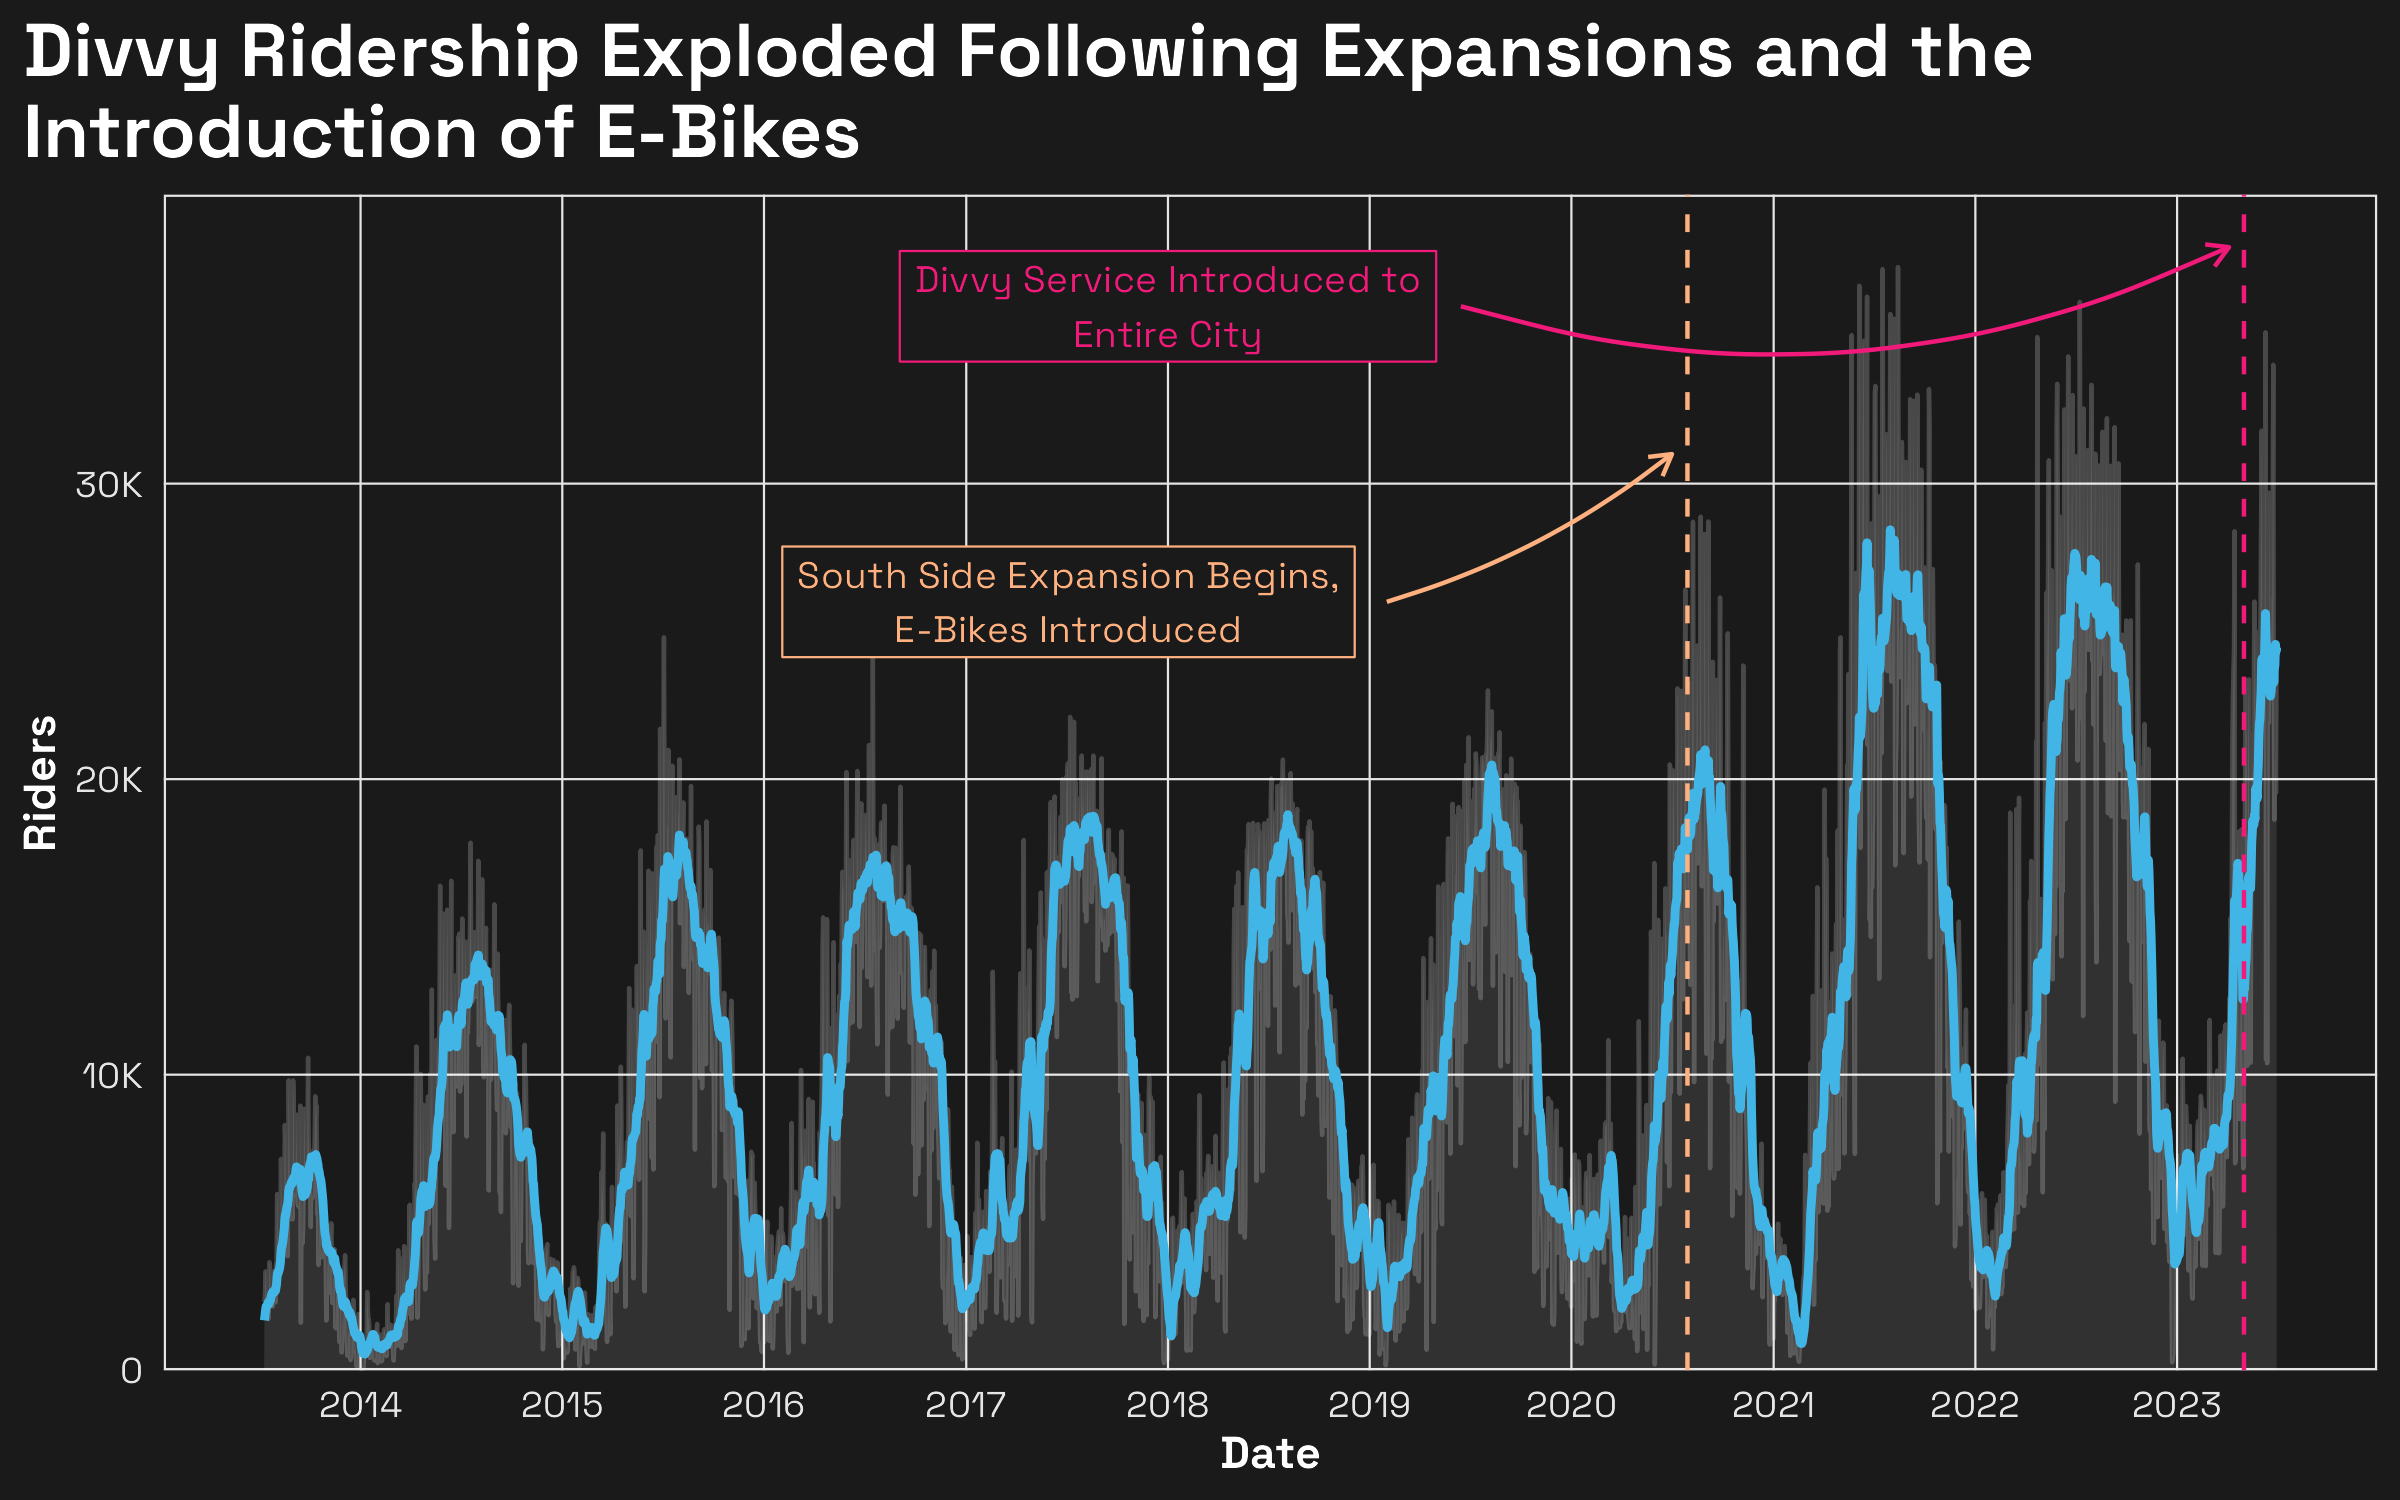
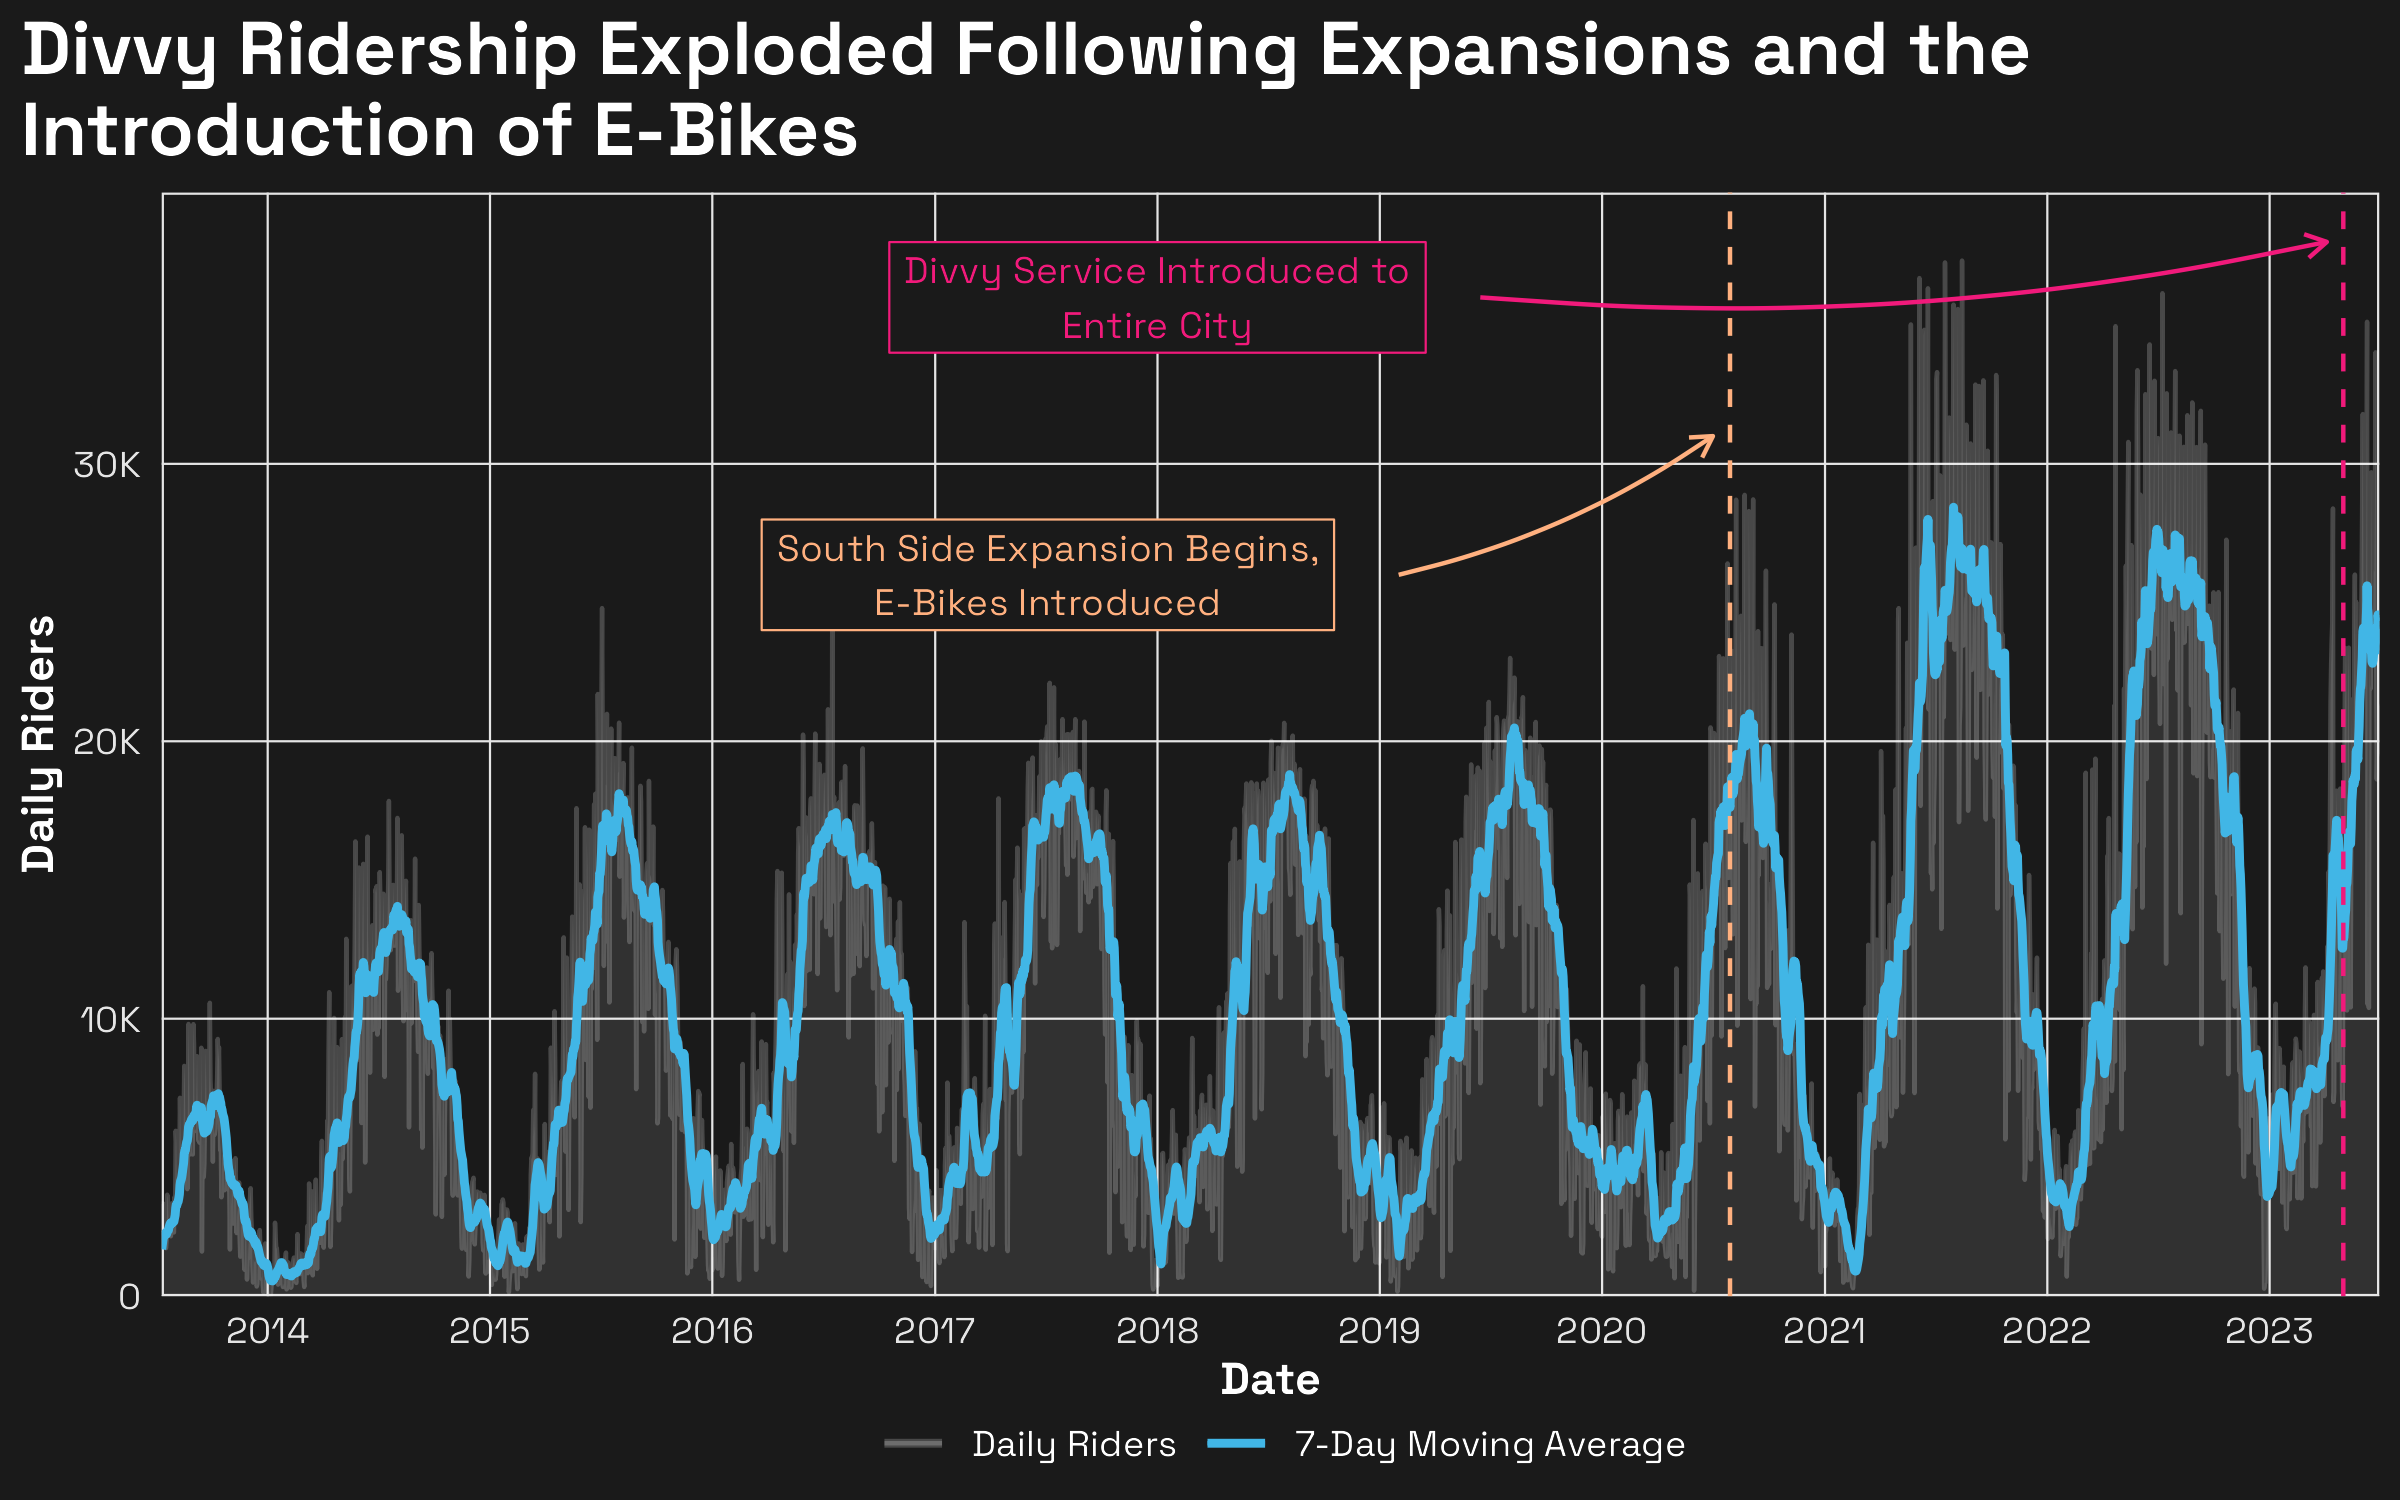
added plot legend

Changed region(s): [[0.0, 0.0, 1.0, 0.9813]]

diff --git a/divvy-viz/divvy-viz.md b/divvy-viz/divvy-viz.md
@@ -81,7 +81,6 @@ divvy_rolling_rides <- divvy_rides %>%
 
 # clean
 rm(old_clean, new_clean)
-DBI::dbDisconnect(con)
 ```
 
 ``` r
@@ -89,8 +88,8 @@ ggplot(divvy_rolling_rides,
        aes(x = date, y = rides)) + 
   # daily riders line
   geom_line(
-    color = "white",
-    alpha = 0.2
+    aes(color = "white", 
+        alpha = 0.2)
   ) +
   # daily riders area
   geom_area(
@@ -99,16 +98,31 @@ ggplot(divvy_rolling_rides,
   ) +
   # rolling riders line
   geom_line(
-    aes(x = date, y = roll_rides),
-    color = "#41b6e6",
+    aes(x = date, y = roll_rides, 
+        color = "#41b6e6",
+        alpha = 1),
     linewidth = 1,
     inherit.aes = FALSE
+  ) +
+  
+  # legend
+  scale_color_identity(
+    guide = "legend",
+    name = "",
+    breaks = c("white", "#41b6e6"),
+    labels = c("Daily Riders", "7-Day Moving Average")
+  ) +
+  scale_alpha_identity(
+    guide = "legend",
+    name = "",
+    breaks = c(0.2, 1),
+    labels = c("Daily Riders", "7-Day Moving Average")
   ) +
   
   labs(
     title = "Divvy Ridership Exploded Following Expansions and the\nIntroduction of E-Bikes",
     x = "Date",
-    y = "Riders"
+    y = "Daily Riders"
   ) +
   
   coord_cartesian(
@@ -151,6 +165,15 @@ ggplot(divvy_rolling_rides,
     
     axis.ticks.x = element_blank(),
     axis.ticks.y = element_blank(),
+    
+    legend.background = element_blank(),
+    legend.text = element_text(family = "Space Grotesk",
+                               color = "white"),
+    legend.key = element_blank(),
+    legend.position = "bottom",
+    legend.margin = margin(0, 0, 0, 0),
+    legend.box.margin = margin(-10, 0, 0, 0),
+    
     plot.margin = margin(5, 5, 5, 5)
   ) +
   
@@ -215,10 +238,10 @@ ggplot(divvy_rolling_rides,
 
 ``` r
 # ggsave(
-#   here("divvy-viz", "plots", "divvy-ridership-timeseries.png"), 
-#   width = 8, 
-#   height = 5, 
-#   units = "in", 
+#   here("divvy-viz", "plots", "divvy-ridership-timeseries.png"),
+#   width = 8,
+#   height = 5,
+#   units = "in",
 #   dpi = 300
 #  )
 ```
